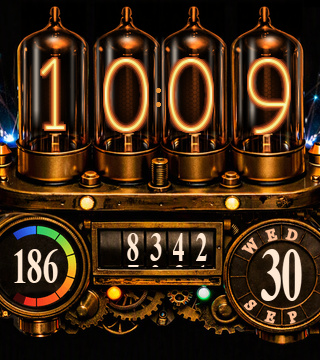
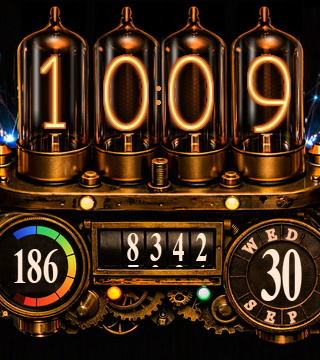
feat(ciq): digits 2 px higher, and a logarithmic halo falloff
Two requests from the wrist:

- "lift the numbers vertically up 2 pixels": TIME_Y 97 -> 95. The nudge is
  stored on the SOURCE grid (255.6 - 2/ST = 251.3 src) so it survives any later
  zoom, the separator (SEP_Y, derived from TIME_Y) lifts with it, and the baked
  haze now follows the same y so the glass tint moves with the ink that lights
  it. Measured on the rendered frame: the time ink bbox centre is 95.0.

- "make the alpha falloff logarithmically, not linear": the halo font's ramp is
  now alpha = 1 - log(1 + k t)/log(1 + k), k = 9, which gives 1.00 / 0.49 / 0.26
  / 0.06 / 0.00 across the fade against the linear 1.00 / 0.75 / 0.50 / 0.25.
  Measured in place, the pixels the halo changed over the wire now read
  112 / 48 / 20 / 8 outward (fast drop, long tail). The mask is also measured
  from the glyph's antialiased skirt (binarised > 0, not > 127), which had been
  pushing every distance ~1 px too far out.

diff --git a/ciq/make_fonts.py b/ciq/make_fonts.py
@@ -58,7 +58,7 @@ def render_glyph(ch, px, condense, source=SERIF_BD, thin=0, thick=0):
     return g.resize((w, g.height), Image.LANCZOS)
 
 
-def halo_mask(g, d0, d1, pad):
+def halo_mask(g, d0, d1, pad, curve="log"):
     """The glyph's OUTER fade as an 8-bit coverage mask: alpha 1 at d0 px from the stroke, falling
     linearly to 0 at d1, and 0 inside d0, on a canvas padded by `pad` so the fade is not clipped.
     Padding every glyph by the same amount keeps this font's advances and line height in step with the
@@ -71,10 +71,23 @@ def halo_mask(g, d0, d1, pad):
     """
     import cv2
     import numpy as np
-    a = (np.asarray(g, np.uint8) > 127).astype(np.uint8) * 255
+    # > 0, not > 127: the glyph's anti-aliased skirt is part of the stroke as the eye sees it, and
+    # binarising at the midpoint measures every distance ~1 px too far out.
+    a = (np.asarray(g, np.uint8) > 0).astype(np.uint8) * 255
     d = cv2.distanceTransform(255 - a, cv2.DIST_L2, 5)       # px from the stroke edge
-    alpha = np.clip((d1 - d) / float(d1 - d0), 0, 1)
-    alpha[d <= d0] = 0
+    t = np.clip((d - d0) / float(d1 - d0), 0, 1)             # 0 at the edge, 1 at the end of the fade
+    if curve == "log":
+        # logarithmic: alpha = 1 - log(1 + k t) / log(1 + k), so it drops fast just outside the wire
+        # and then lingers - 1.00 / 0.49 / 0.26 / 0.06 / 0.00 at t = 0, .25, .5, .75, 1 against the
+        # linear ramp's 1.00 / 0.75 / 0.50 / 0.25 / 0.00. User request ("make the alpha falloff
+        # logarithmically, not linear").
+        k = 9.0
+        alpha = 1.0 - np.log1p(k * t) / float(np.log1p(k))
+    elif curve == "exp":
+        alpha = np.power(0.5, t / 0.25)                      # halving every quarter of the fade
+    else:
+        alpha = 1.0 - t
+    alpha[d < d0] = 0
     m = Image.fromarray((alpha * 255).astype(np.uint8), "L")
     big = Image.new("L", (m.width + 2 * pad, m.height + 2 * pad), 0)
     big.paste(m, (pad, pad))
@@ -177,11 +190,13 @@ t_atlas, t_glyphs = build("NixieTime", DIGITS, px=px_for_ink(NIXIE_ONE, 75 * TOP
 h_atlas, h_glyphs = build("NixieTimeHot", DIGITS, px=px_for_ink(NIXIE_ONE, 75 * TOP_K),
                           condense=0.80, source=NIXIE_ONE, erode=1)
 # NixieTimeHalo: the wire's OUTER fade, drawn in the last glow colour (INK_GLOW3). Its glyphs ARE the
-# alpha ramp - solid to 2 px out from the stroke, then blending to nothing 4 px later - so the falloff
-# follows whatever digits are shown and alpha-blends over the background. The user asked for exactly
-# that: "the last colour ... alpha blend over the background for 4 pixels out to nothing".
+# alpha ramp - full brightness at the stroke's edge, LOGARITHMICALLY down to nothing 4 px out - so the
+# falloff follows whatever digits are shown and alpha-blends over the background. The user asked for
+# exactly that: "the last colour ... alpha blend over the background for 4 pixels out to nothing",
+# then "make the alpha falloff logarithmically, not linear". The pad is 5 px so the 4 px fade and its
+# anti-aliased tail both fit inside the glyph box.
 hl_atlas, hl_glyphs = build("NixieTimeHalo", DIGITS, px=px_for_ink(NIXIE_ONE, 75 * TOP_K),
-                            condense=0.80, source=NIXIE_ONE, halo=(2.0, 6.0, 7))
+                            condense=0.80, source=NIXIE_ONE, halo=(0.5, 4.5, 5, "log"))
 # NixieDay: the date dial's day number. The weekday and month moved out to the dial's ring
 # (make_date_ring.py), which freed the inner disc for a bigger number: 54 px ink (user-approved,
 # artwork/date_ring/_compare.png). Was NixieSmall at px 61 / 42 px ink.

diff --git a/ciq/prepare_artwork.py b/ciq/prepare_artwork.py
@@ -45,9 +45,13 @@ OLD_SCALE = 0.3365  # the previous uniform fit; the fonts scale by ST/OLD_SCALE 
 # Text centre points ON THE 1024 GRID, with the band each belongs to. These are the coordinates
 # that shipped under the old 0.3365 transform — including every hand nudge recorded in the view —
 # mapped back to the source, so the nudges survive the change of scale.
+# The tube digits sit 2 SCREEN px higher than measured (user request): the digit centre is stored on
+# the source grid, so the nudge is 2 / ST = 4.3 source px and survives any later zoom. The separator
+# (SEP_Y) is derived from TIME_Y, so it lifts with them.
+_TUBE_Y_SRC = 255.6 - 2 / ST
 POINTS = {
-    "tube1": (282.3, 255.6, "top"), "tube2": (439.8, 255.6, "top"),
-    "tube3": (579.5, 255.6, "top"), "tube4": (745.9, 255.6, "top"),
+    "tube1": (282.3, _TUBE_Y_SRC, "top"), "tube2": (439.8, _TUBE_Y_SRC, "top"),
+    "tube3": (579.5, _TUBE_Y_SRC, "top"), "tube4": (745.9, _TUBE_Y_SRC, "top"),
     "steps1": (445.8, 600.3, "bot"), "steps2": (505.2, 591.4, "bot"),
     "steps3": (561.7, 591.4, "bot"), "steps4": (618.1, 591.4, "bot"),
 }
@@ -106,7 +110,8 @@ GLASS_HAZE_RGB = (0.62, 0.26, 0.06)
 GLASS_SPEC_RGB = (1.0, 0.94, 0.86)
 GLASS_HAZE_AMP = 0.30           # peak of the digit's haze in the glass
 GLASS_HAZE_SIGMA = (20, 60)     # source px, x and y: tight around the digit, still taller than wide
-GLASS_HAZE_Y_SRC = 255.6        # the digit centre the haze is centred on (POINTS tube1..4)
+GLASS_HAZE_Y_SRC = _TUBE_Y_SRC  # the digit centre the haze is centred on: it follows the wire's
+                                # 2 px lift above, so the baked tint moves with the ink that lights it
 # The envelope's own CAST: a per-channel gain applied to the artwork's luminance. It replaced the AI
 # art's gold with a cool blue cast, and the user's reference (a warm amber tube render) then asked for
 # the opposite: the base chroma is what the PANEL re-lights, and the baked haze cannot re-tint the
